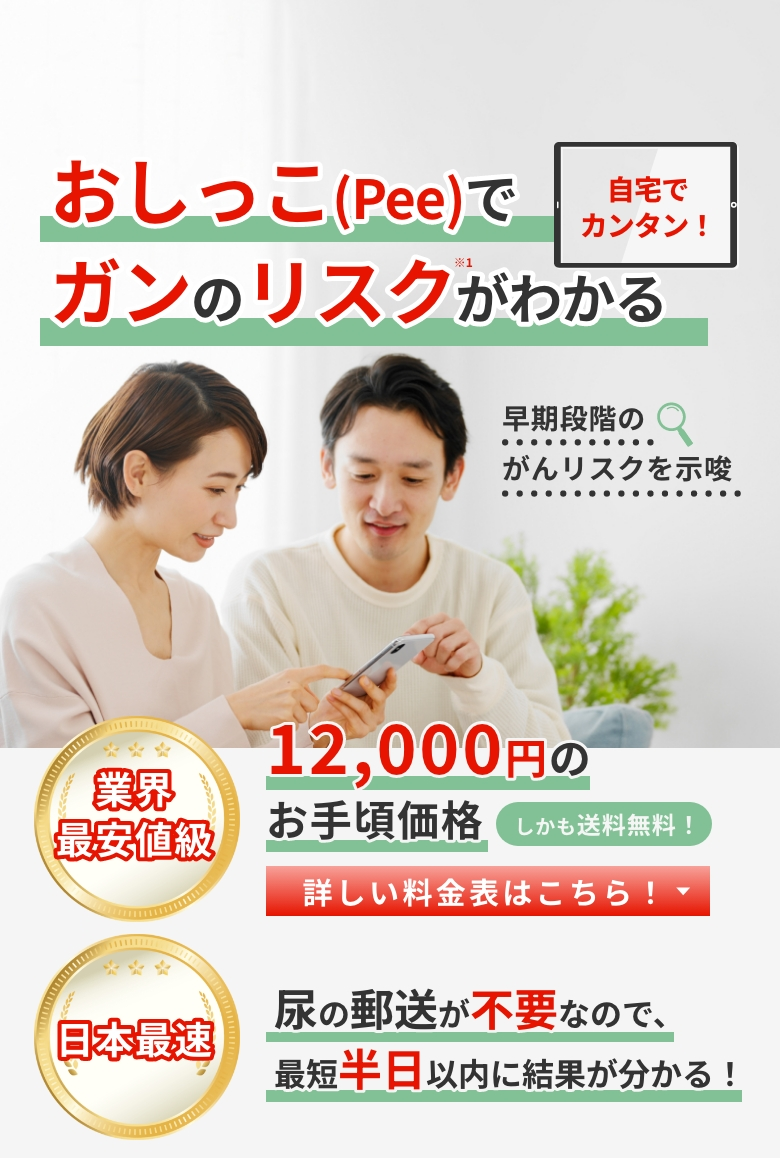
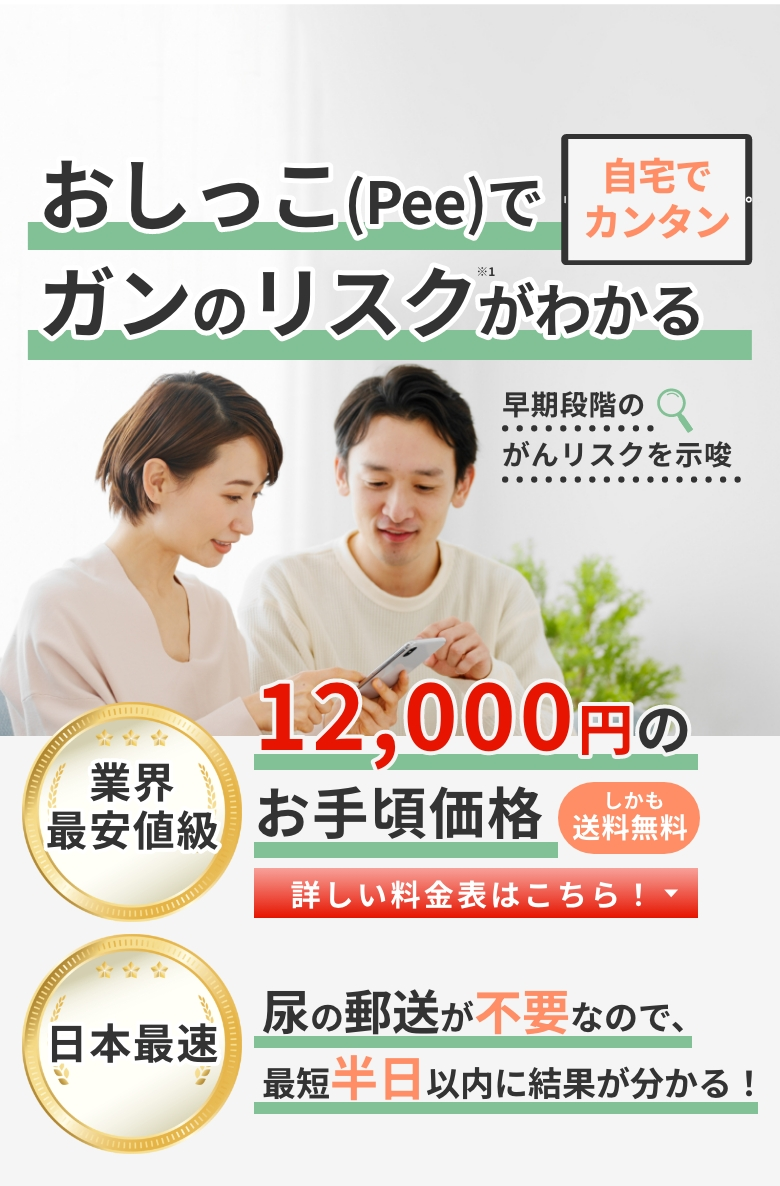
修正

diff --git a/public/index.html b/public/index.html
@@ -581,7 +581,7 @@
                                             </a>
                                         </div>
                                     </div>
-                                    <div class="course_middle">
+                                    <!-- <div class="course_middle">
                                         <img src="img/course_deco_02.svg" alt="定期測定コース限定特典">
                                         <p class="pc">判定結果によってメーカーから<br>
                                             医療機関での検査を<br class="sp">推奨させていただいた場合、<br>
@@ -589,7 +589,7 @@
                                         <p class="sp">判定結果によってメーカーから<br>
                                             医療機関での検査を<br class="sp">推奨させていただいた場合、<br>
                                             検査費用の最大<span class="large_text red_text">10万円</span>分を<br class="sp">お支払いします。</p>
-                                    </div>
+                                    </div> -->
                                     <div class="course_bottom">
                                         <p class="course_bottom_title">こんな人におすすめ！</p>
                                         <div class="course_bottom_content">

diff --git a/public/index.518e48de27c73fe02460.css b/public/index.518e48de27c73fe02460.css
@@ -22,8 +22,8 @@
 
 .kv_button {
     position: absolute;
-    left: 34vw;
-    top: 110.9vw;
+    left: 32.6vw;
+    top: 114.9vw;
     width: 56.92vw;
     height: 6.41vw;
 }
@@ -73,6 +73,7 @@
 
 .kv_all {
     width: 100%;
+    margin-top: 14px;
 }
 
 .kv_upper_left {

diff --git a/public/src_css_reset_css-src_css_top_css.13429810ac94dcf8074d.css b/public/src_css_reset_css-src_css_top_css.13429810ac94dcf8074d.css
@@ -571,6 +571,7 @@ a.cta_btn::before {
     letter-spacing: 0.11rem;
     font-weight: bold;
     background: var(--red);
+    background: linear-gradient(180deg,#FDCCC8 2% ,#E61400 66%);
     color: #fff;
     z-index: 100;
 
